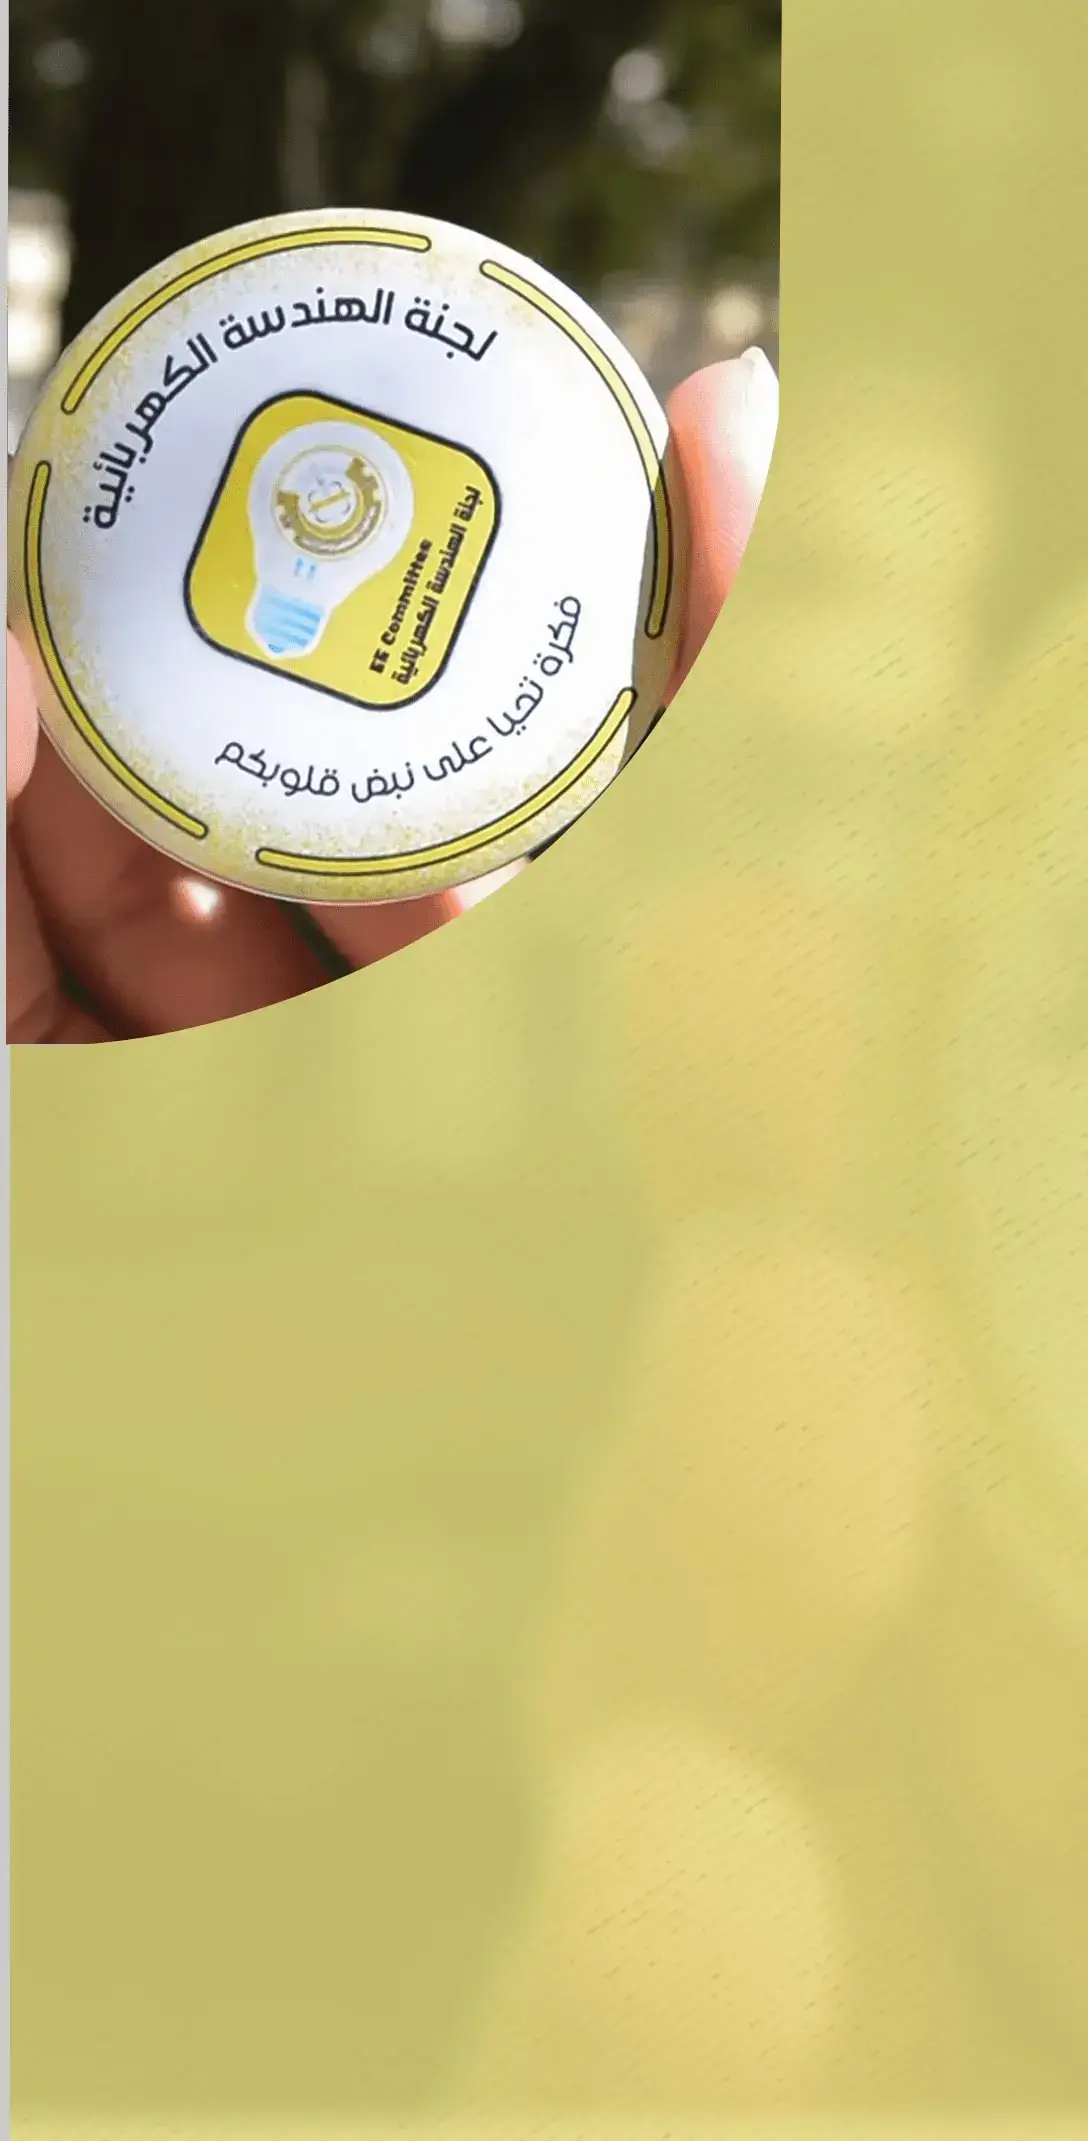
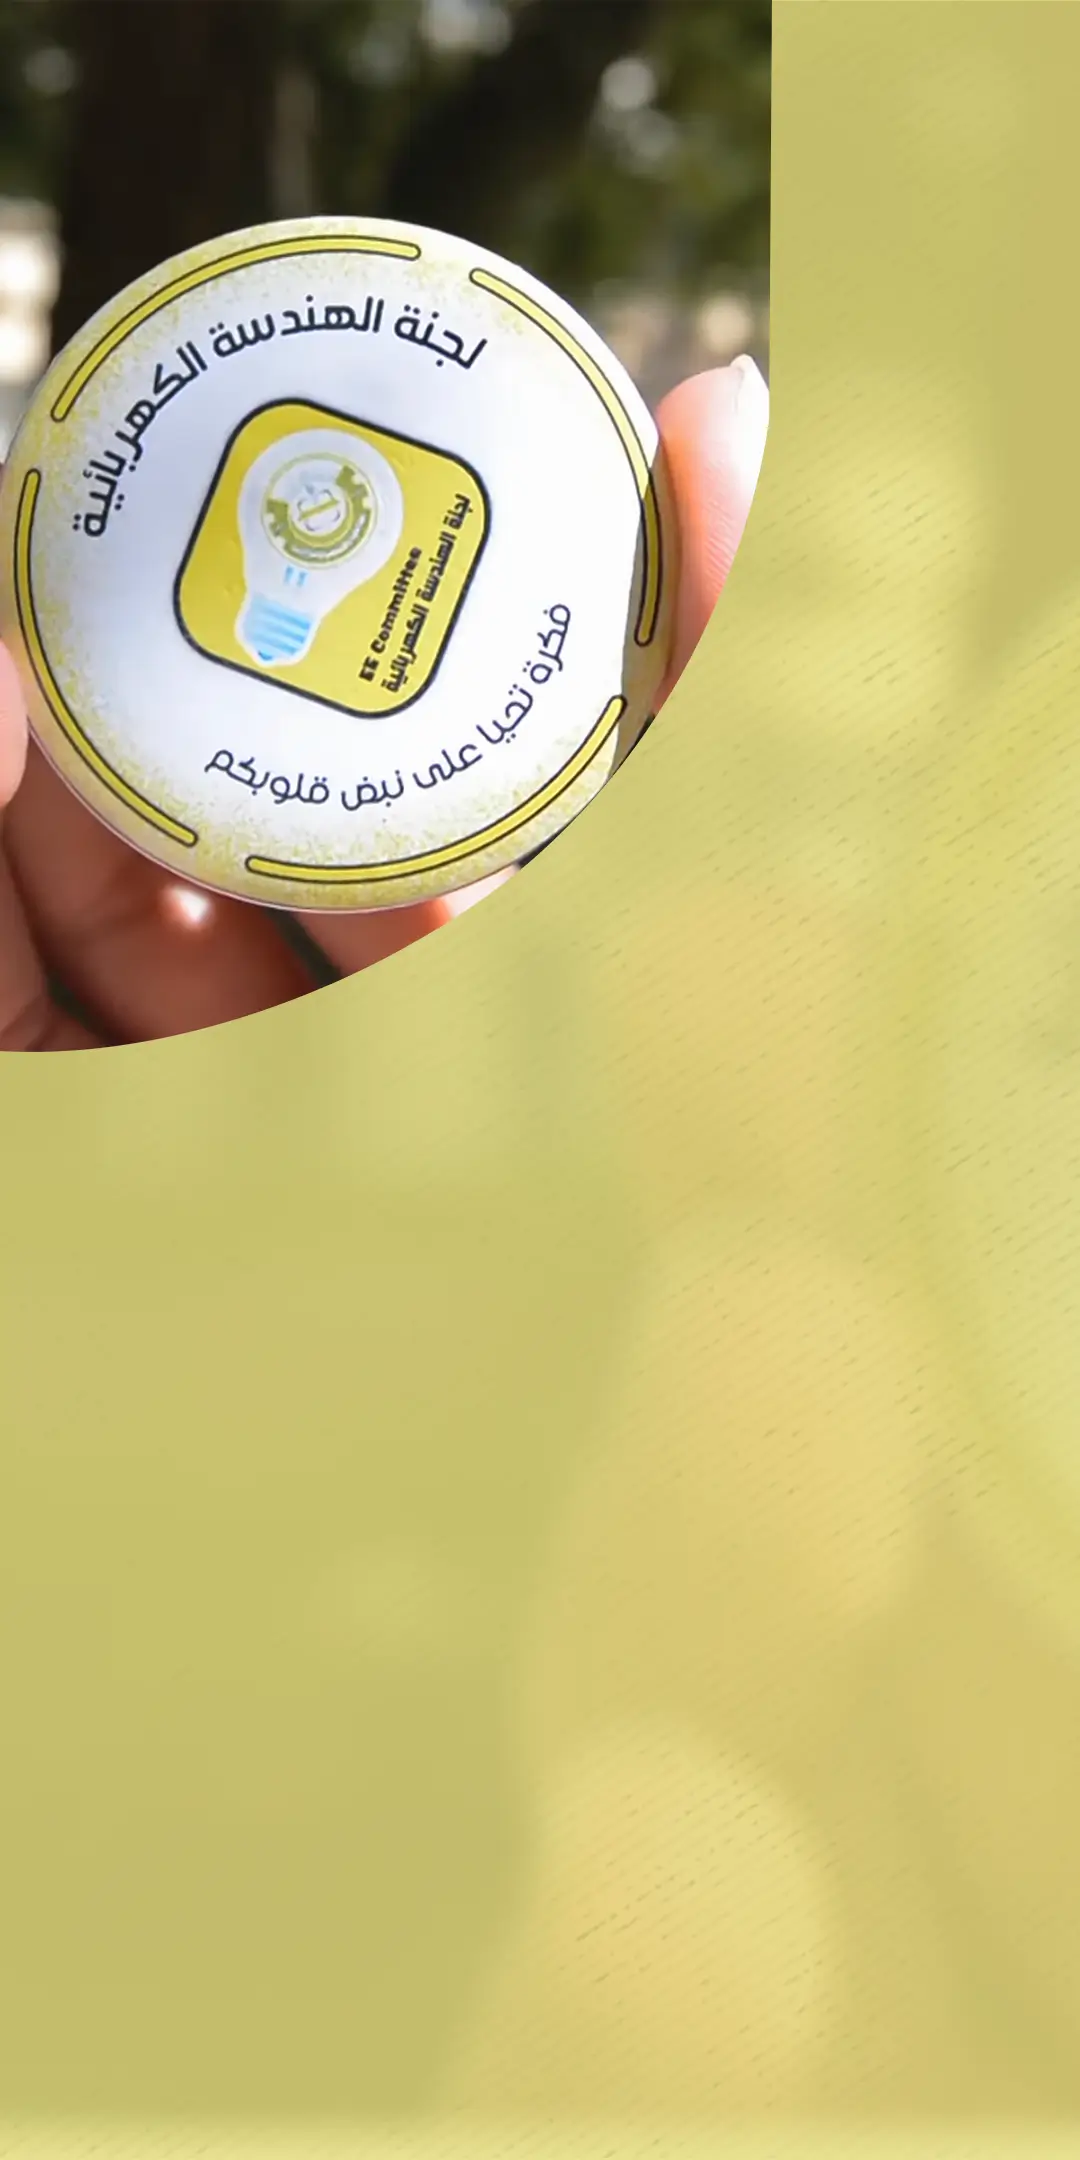
added more slides to about eec screen

diff --git a/src/components/FirstLoading.tsx b/src/components/FirstLoading.tsx
@@ -10,7 +10,7 @@ import { useRef, useState, memo } from "react";
 import { horizontalScale, moderateScale, verticalScale } from "@Utils/Platform";
 import Colors from "@GlobalStyle/Colors";
 import { StatusBar } from "expo-status-bar";
-import { screenHeight, screenWidth } from "@Utils/Helper";
+import { screenWidth } from "@Utils/Helper";
 import { Feather } from "@expo/vector-icons";
 
 type Props = {
@@ -22,7 +22,7 @@ const FirstLoading = ({ onFinished, onLayout }: Props) => {
   const [selectedIndex, setSelectedIndex] = useState(data.length - 2);
   const scrollRef = useRef<ScrollView>(null);
   const onNext = () => {
-    setSelectedIndex((prevIndex) => (prevIndex !== 0 ? prevIndex - 1 : 0)),
+    setSelectedIndex(selectedIndex != 0 ? selectedIndex - 1 : 0),
       scrollRef.current?.scrollTo({
         animated: true,
         x: screenWidth * selectedIndex,
@@ -53,7 +53,11 @@ const FirstLoading = ({ onFinished, onLayout }: Props) => {
                 {index != data.length - 1 ? (
                   <TouchableOpacity
                     style={[
-                      styles.button,
+                      index === 0
+                        ? styles.buttonSlide1
+                        : index === 4
+                        ? styles.buttonSlide5
+                        : styles.button,
                       {
                         left:
                           item.arrPos === "right"
@@ -71,46 +75,67 @@ const FirstLoading = ({ onFinished, onLayout }: Props) => {
                   </TouchableOpacity>
                 ) : (
                   <TouchableOpacity
-                    style={[
-                      styles.button,
-                      {
-                        left:
-                          item.arrPos === "right"
-                            ? horizontalScale(40)
-                            : screenWidth - 100,
-                      },
-                    ]}
+                    style={{
+                      position: "absolute",
+                      bottom: verticalScale(80),
+                      right: 50,
+                      backgroundColor: Colors.lightText,
+                      height: verticalScale(50),
+                      borderRadius: moderateScale(15),
+                      padding: moderateScale(10),
+                      justifyContent: "center",
+                      zIndex: 10,
+                      alignItems: "center",
+                    }}
                     onPress={onFinished}
                   >
-                    <Feather
-                      name="arrow-left"
-                      size={moderateScale(32)}
-                      color="#fff"
-                    />
+                    <Text
+                      style={{
+                        color: Colors.darkText,
+                        fontSize: moderateScale(16),
+                        fontFamily: "Bukra",
+                      }}
+                    >
+                      بدء الاستخدام
+                    </Text>
                   </TouchableOpacity>
                 )}
-                <Text style={index != 4 ? styles.customTitle1 : styles.title1}>
-                  {item.textAr1}
-                </Text>
-                <Text
-                  style={
-                    index != 3 && index != 1
-                      ? styles.title2
-                      : styles.customTitle2
-                  }
-                >
-                  {item.textAr2}
-                </Text>
-                <Text style={styles.title1En}>{item.textEn1}</Text>
-                <Text
-                  style={
-                    index != 3 && index != 1
-                      ? styles.title2En
-                      : styles.customTitle2En
-                  }
-                >
-                  {item.textEn2}
-                </Text>
+                {item.textAr1 && (
+                  <Text style={index === 0 ? styles.slide1 : styles.title1}>
+                    {item.textAr1}
+                  </Text>
+                )}
+                {item.textAr2 && (
+                  <Text
+                    style={
+                      index === 0
+                        ? styles.slide2
+                        : index === 4
+                        ? styles.slide5
+                        : styles.title2
+                    }
+                  >
+                    {item.textAr2}
+                  </Text>
+                )}
+                {item.textEn1 && (
+                  <Text style={index === 0 ? styles.slide1En : styles.title1En}>
+                    {item.textEn1}
+                  </Text>
+                )}
+                {item.textEn2 && (
+                  <Text
+                    style={
+                      index === 0
+                        ? styles.slide2En
+                        : index === 4
+                        ? styles.slideEn5
+                        : styles.title2En
+                    }
+                  >
+                    {item.textEn2}
+                  </Text>
+                )}
               </View>
             </ImageBackground>
           </View>
@@ -129,39 +154,85 @@ const styles = StyleSheet.create({
     justifyContent: "center",
   },
   image: {
-    width: screenWidth,
-    height: screenHeight,
+    width: "100%",
+    height: "100%",
     alignSelf: "center",
+    resizeMode: "cover",
   },
   contentContainer: {
     flex: 1,
     justifyContent: "flex-end",
     padding: moderateScale(16),
   },
-  button: {
+  buttonSlide1: {
     justifyContent: "center",
     alignItems: "center",
-    backgroundColor: Colors.darkBackgroundSec,
+    backgroundColor: Colors.lightText,
     width: verticalScale(50),
     height: verticalScale(50),
     borderRadius: moderateScale(25),
-    top: verticalScale(-100),
+    top: verticalScale(-140),
+    zIndex: 10,
+  },
+  buttonSlide5: {
+    justifyContent: "center",
+    alignItems: "center",
+    backgroundColor: Colors.lightText,
+    width: verticalScale(50),
+    height: verticalScale(50),
+    borderRadius: moderateScale(25),
+    zIndex: 10,
+  },
+  button: {
+    justifyContent: "center",
+    alignItems: "center",
+    backgroundColor: Colors.lightText,
+    width: verticalScale(50),
+    height: verticalScale(50),
+    borderRadius: moderateScale(25),
+    top: verticalScale(-80),
+    zIndex: 10,
+  },
+  slide1: {
+    fontSize: moderateScale(20),
+    marginTop: verticalScale(8),
+    lineHeight: verticalScale(30),
+    color: Colors.lightText,
+    fontFamily: "Bukra",
+    top: verticalScale(-120),
+    textAlign: "left",
+  },
+  slide2: {
+    fontSize: moderateScale(16),
+    lineHeight: verticalScale(28),
+    marginTop: verticalScale(8),
+    fontFamily: "Bukra",
+    top: verticalScale(-120),
+    color: Colors.lightText,
+    textAlign: "left",
+  },
+  slide1En: {
+    fontSize: moderateScale(20),
+    marginTop: verticalScale(8),
+    fontWeight: "bold",
+    color: Colors.lightText,
+    top: verticalScale(-85),
+  },
+  slide2En: {
+    fontSize: moderateScale(16),
+    lineHeight: verticalScale(28),
+    marginTop: verticalScale(8),
+    fontWeight: "600",
+    top: verticalScale(-85),
+    color: Colors.lightText,
   },
   title1: {
     fontSize: moderateScale(20),
     marginTop: verticalScale(8),
+    lineHeight: verticalScale(30),
     color: Colors.lightText,
     fontFamily: "Bukra",
-    top: verticalScale(-80),
-    textAlign: "left",
-  },
-  customTitle1: {
-    fontSize: moderateScale(16),
-    lineHeight: verticalScale(24),
-    marginTop: verticalScale(8),
-    color: Colors.lightText,
-    fontFamily: "Bukra",
-    top: verticalScale(-80),
+    top: verticalScale(-50),
     textAlign: "left",
   },
   title2: {
@@ -169,16 +240,16 @@ const styles = StyleSheet.create({
     lineHeight: verticalScale(28),
     marginTop: verticalScale(8),
     fontFamily: "Bukra",
-    top: verticalScale(-80),
+    top: verticalScale(-50),
     color: Colors.lightText,
     textAlign: "left",
   },
-  customTitle2: {
-    fontSize: moderateScale(12),
-    lineHeight: verticalScale(24),
+  slide5: {
+    fontSize: moderateScale(15),
+    lineHeight: verticalScale(22),
     marginTop: verticalScale(8),
     fontFamily: "Bukra",
-    top: verticalScale(-80),
+    top: verticalScale(-50),
     color: Colors.lightText,
     textAlign: "left",
   },
@@ -187,22 +258,22 @@ const styles = StyleSheet.create({
     marginTop: verticalScale(8),
     fontWeight: "bold",
     color: Colors.lightText,
-    top: verticalScale(-55),
+    top: verticalScale(-25),
   },
   title2En: {
     fontSize: moderateScale(16),
     lineHeight: verticalScale(28),
     marginTop: verticalScale(8),
     fontWeight: "600",
-    top: verticalScale(-55),
+    top: verticalScale(-25),
     color: Colors.lightText,
   },
-  customTitle2En: {
-    fontSize: moderateScale(14),
+  slideEn5: {
+    fontSize: moderateScale(16),
     lineHeight: verticalScale(22),
     marginTop: verticalScale(8),
-    fontWeight: "700",
-    top: verticalScale(-55),
+    fontWeight: "bold",
+    top: verticalScale(-25),
     color: Colors.lightText,
   },
 });
@@ -228,16 +299,13 @@ const data = [
     image: require("@Assets/images/2ndslide.webp"),
     arrPos: "left",
   },
-
   {
     textAr1:
       "أما فيما يخص إرشاد الطلبة فإن اللجنة ترافق كل دفعة منذ دخولها الجامعة وحتى تخرجها بفريق طلابي من أبناء الدفعة نفسها!",
-    textAr2: "",
     textEn1:
       "AS FOR THE GUIDANCE OF STUDENTS, THE COMMITTEE ACCOMPANIES EVERY BATCH SINCE ENTERING THE UNIVERSITY UNTIL GRADUATION WITH A TEAM FROM THE SAME BATCH!",
-    textEn2: "",
     image: require("@Assets/images/3rdSlide.webp"),
-    arrPos: "right",
+    arrPos: "left",
   },
   {
     textAr1:
@@ -247,6 +315,31 @@ const data = [
       "SINCE ITS INCEPTION, YOUR COMMITTEE HAS PROVIDED DISTINGUISHED ACADEMICS TO FACILITATE THE EDUCATIONAL PROCESS!",
     textEn2: "TODAY, THE COMMITTEE LIBRARY STILL BEARS WITNESS TO THAT",
     image: require("@Assets/images/4thSlide.webp"),
+    arrPos: "right",
+  },
+  {
+    textAr2: `قامت اللجنة بتمثيل قسم الهندسة
+الكهربائية في معظم السنوات
+وقد سهلت عملية التسجيل على الطلبة
+من خلال فريق التسجيل الذي كان دائما
+متواجد في الجامعة لمساعدة الطلبة وحل
+مشاكلهم!`,
+    textEn2: `THE COMMITTEE HAS REPRESENTED THE DEPARTMENT OF ELECTRICAL ENGINEERING IN MOST YEARS.
+
+THE REGISTRATION PROCESS WAS MADE EASIER FOR STUDENTS THROUGH THE REGISTRATION TEAM, WHICH WAS ALWAYS PRESENT IN THE UNIVERSITY TO HELP STUDENTS AND SOLVE THEIR PROBLEMS!`,
+    image: require("@Assets/images/5thSlide.webp"),
+    arrPos: "left",
+  },
+  {
+    textAr1:
+      "يضاف جديثًا للجنتكم، تطبيقنا الذي يقدم كل ما يحتاجه طالب الهندسة الكهربائية",
+    textEn1:
+      "RECENTLY ADDED TO YOUR COMMITTEE, OUR APPLICATION WHICH PROVIDES EVERYTHING AN ELECTRICAL ENGINEERING STUDENT NEEDS!",
+    textEn2: `
+    
+    
+    `,
+    image: require("@Assets/images/6thSlide.webp"),
     arrPos: "left",
   },
 ];
